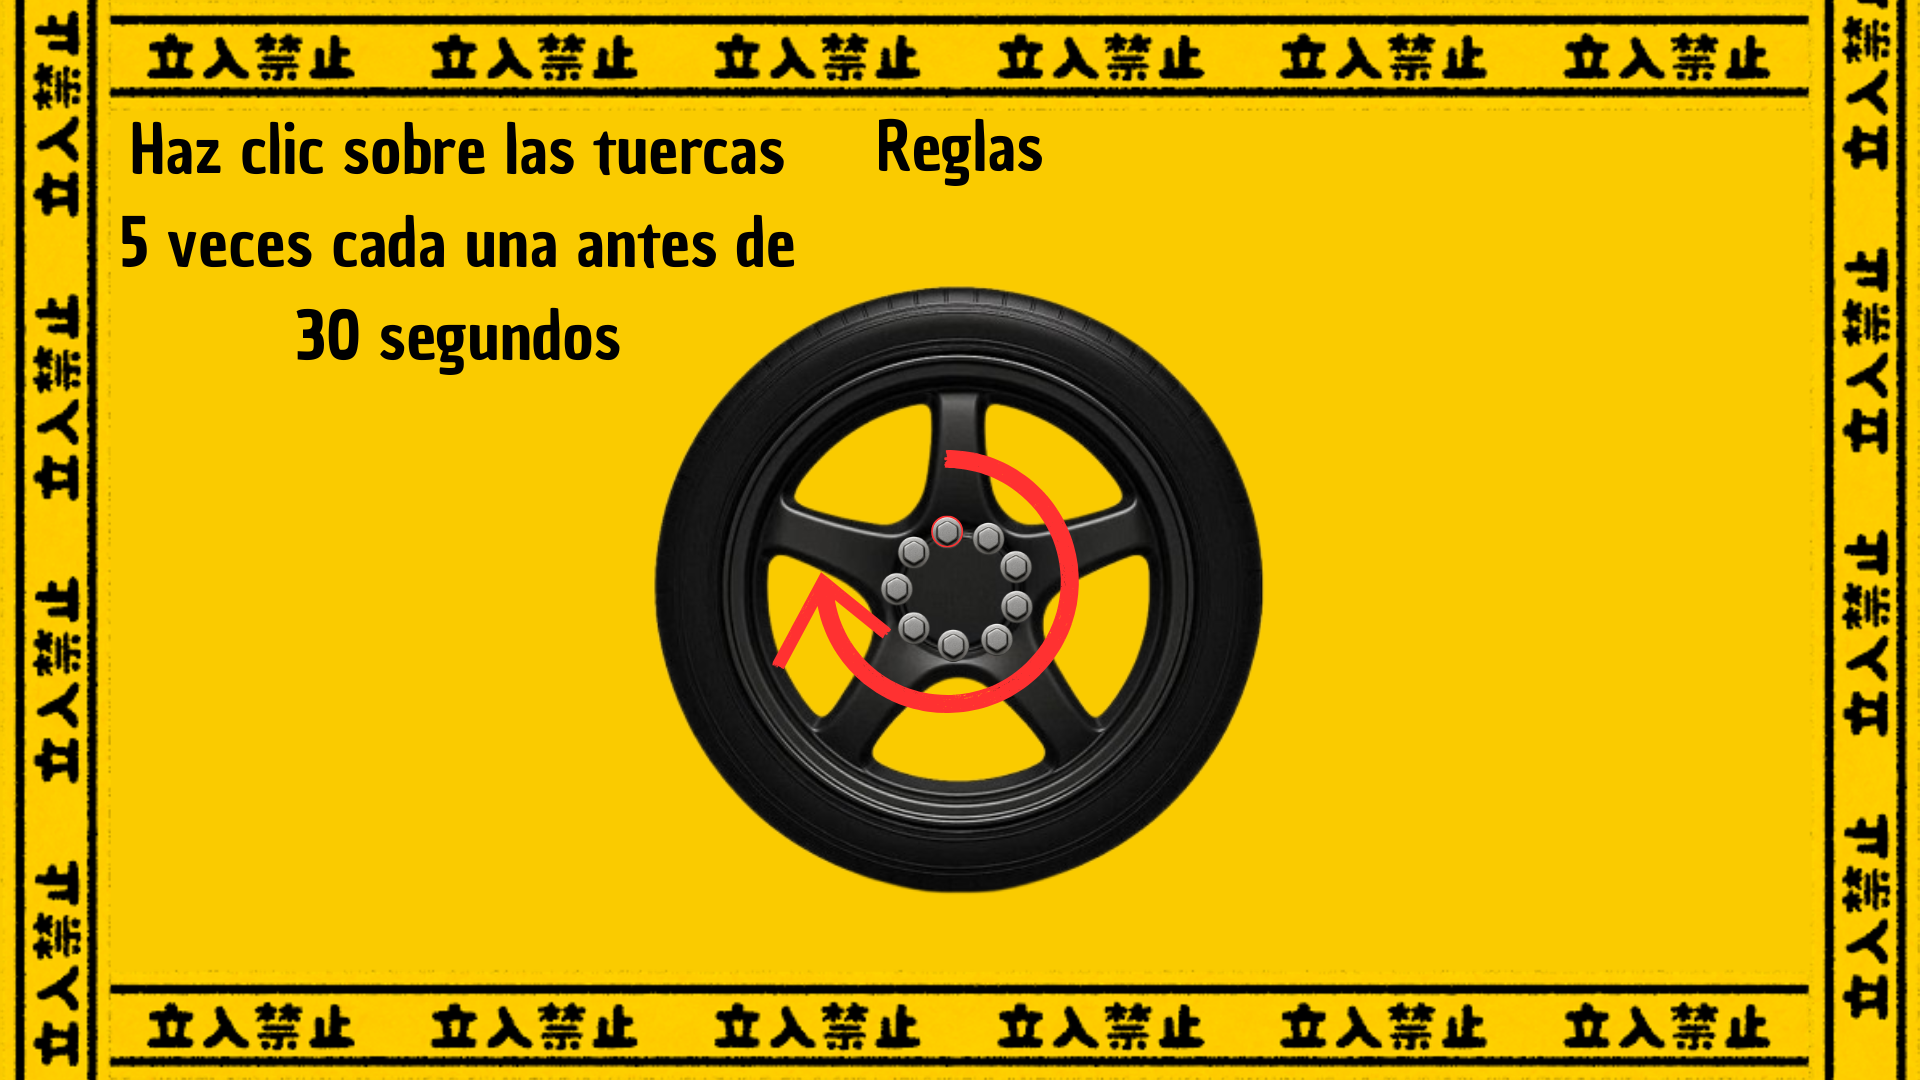
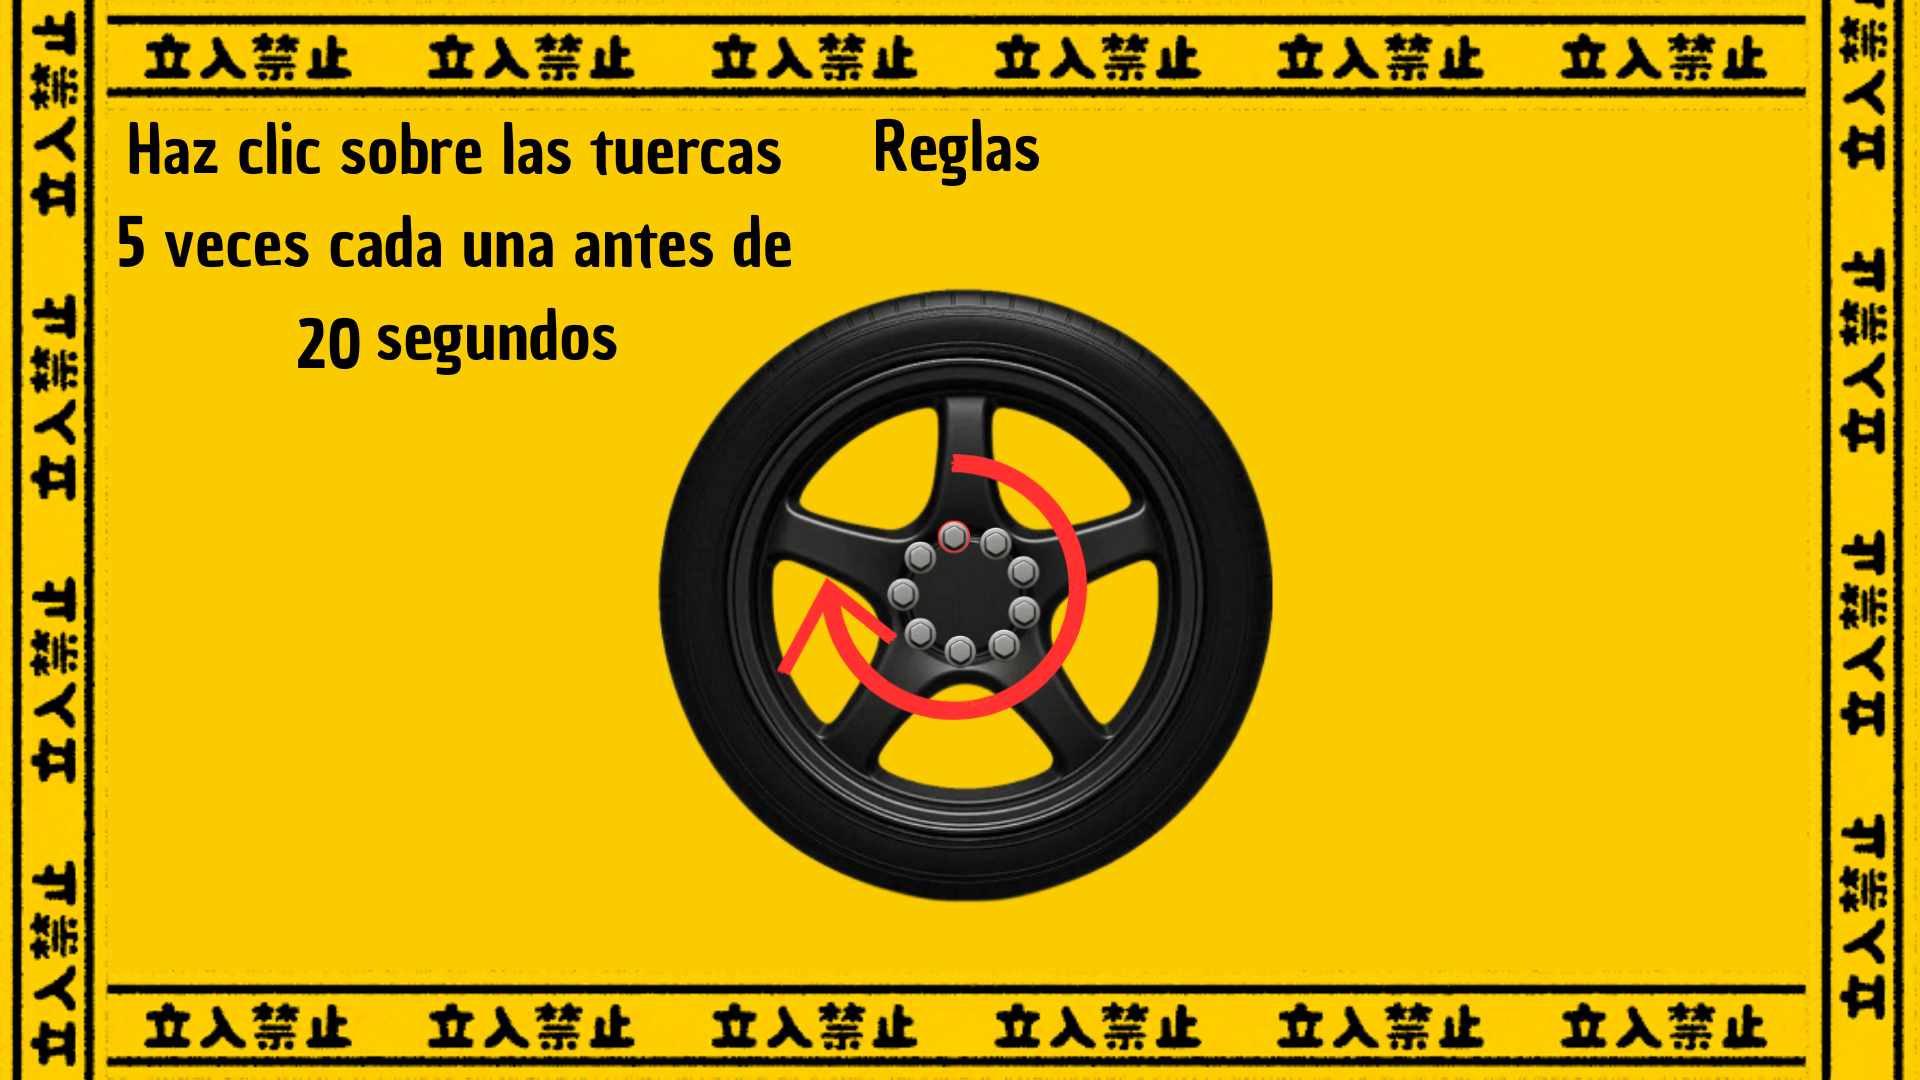
VersionFinal

diff --git a/main.cpp b/main.cpp
@@ -10,6 +10,9 @@
 // Estados del juego
 int actividad = 0; // 0=Intro, 1=AutoMenu, 2=Reglas, 3=Actividad1, 4=Actividad2
 
+sf::Music musicaBanderas;
+
+
 // AutoMenu
 bool enAutoMenu = false;
 int seleccionado = 0; // índice del auto seleccionado
@@ -18,6 +21,8 @@ std::vector<sf::Sprite> autos;
 sf::RectangleShape marcos[5];
 sf::Clock relojLED;
 bool colorRojo = true;
+
+
 
 // Reglas
 sf::Texture reglasTex[4];
@@ -30,6 +35,11 @@ sf::Texture rosasTex[3];
 std::optional<sf::Sprite> rosasSprite;
 int rosaActual = 0;
 sf::Clock relojRosas;
+
+sf::Texture banderasTex[7];
+std::optional<sf::Sprite> banderasSprite;
+int banderaActual = 0;
+sf::Clock relojBanderas;
 
 // Música y sonidos
 sf::Music musicaIntro;
@@ -67,7 +77,7 @@ std::optional<sf::Text> textoFin, opcionRepetir, opcionCerrar;
 bool finJuego = false;
 int errores = 0;
 int objetosProcesados = 0;
-const int META_OBJETOS = 2; // cantidad necesaria para pasar
+const int META_OBJETOS = 40; // cantidad necesaria para pasar
 int opcionSeleccionada = 0; // 0=Repetir, 1=Cerrar
 
 std::optional<sf::Sound> sonidoFin;
@@ -194,6 +204,8 @@ void cargarActividad1(sf::Font &fuente) {
     opcionSeleccionada = 0;
 }
 
+
+
 void cargarRosasActividad() {
     std::string nombres[] = {"rosas1.png","rosas2.png","rosas3.png"};
     for (int i=0;i<3;i++) {
@@ -207,6 +219,27 @@ void cargarRosasActividad() {
     rosaActual = 0;
     relojRosas.restart();
 }
+
+void cargarBanderasActividad() {
+    std::string nombres[] = {"banderas1.png","banderas2.png","banderas3.png","banderas4.png","banderas5.png","banderas6.png"};
+    for (int i=0;i<6;i++) {
+        if (!banderasTex[i].loadFromFile("recursos/"+nombres[i])) {
+            std::cerr << "Error cargando " << nombres[i] << "\n";
+        }
+    }
+    banderasSprite.emplace(banderasTex[0]);
+    banderasSprite->setScale(sf::Vector2f(0.6f, 0.6f));
+    banderasSprite->setPosition(sf::Vector2f(0.f, 40.f));
+    banderaActual = 0;
+    relojBanderas.restart();
+    if (!musicaBanderas.openFromFile("recursos/musica_banderas.ogg")) {
+    std::cerr << "Error cargando musica_banderas.ogg\n";
+}
+musicaBanderas.setLooping(true);
+musicaBanderas.play();
+
+}
+
 
 
 // --- Generar objeto aleatorio ---
@@ -641,6 +674,22 @@ if (actividad == 5) {
     cargarRosasActividad();
     actividad = 6; // nueva pantalla de rosas
 
+}else if (actividad == 7) {
+    if (relojBanderas.getElapsedTime().asSeconds() > 2.0f) {
+        banderaActual = (banderaActual+1)%6;
+        banderasSprite->setTexture(banderasTex[banderaActual]);
+        relojBanderas.restart();
+    }
+    ventana.draw(*banderasSprite);
+
+    if (sf::Keyboard::isKeyPressed(sf::Keyboard::Key::Enter)) {
+    musicaBanderas.stop();   // detener música de banderas
+    actividad = 8;           // pasar a la siguiente actividad
+    // cargarActividad8();    // si ya tienes definida la carrera
+}
+
+    // Avanzar a la carrera con Enter
+
 }
                 actualizarObjetos();
 
@@ -709,6 +758,7 @@ bool todasCompletadas = true;
 for (size_t i = 0; i < clicsTuerca.size(); ++i) {
     if (clicsTuerca[i] < 5) {
         todasCompletadas = false;
+
         break;
     }
 }
@@ -717,7 +767,7 @@ if (todasCompletadas && !finJuego5) {
     // Pausar tiempo y pasar a la siguiente actividad
     musicaActividad2.stop();
     actividad = 7; // penúltima actividad
-    // aquí puedes cargarActividad7() si ya la tienes
+    cargarBanderasActividad();
 }
 
     if (tiempoRestante <= 0 && !finJuego5) {
@@ -732,6 +782,24 @@ if (todasCompletadas && !finJuego5) {
 
     if (finJuego5) {
         dibujarFin(ventana);
+    }
+}else if (actividad == 7) {
+    if (relojBanderas.getElapsedTime().asSeconds() > 2.0f) {
+        banderaActual = (banderaActual+1)%6;
+        banderasSprite->setTexture(banderasTex[banderaActual]);
+        relojBanderas.restart();
+    }
+    ventana.draw(*banderasSprite);
+
+    // Aquí puedes decidir cómo avanzar: por ejemplo, con Enter pasar a otra actividad
+   if (sf::Keyboard::isKeyPressed(sf::Keyboard::Key::Enter)) {
+        musicaBanderas.stop();
+        ventana.close(); // o actividad = 8 si quieres continuar
+    }
+
+    // Caso 2: la canción termina sola
+    if (musicaBanderas.getStatus() == sf::SoundSource::Status::Stopped) {
+        ventana.close(); // o actividad = 8
     }
 }
 